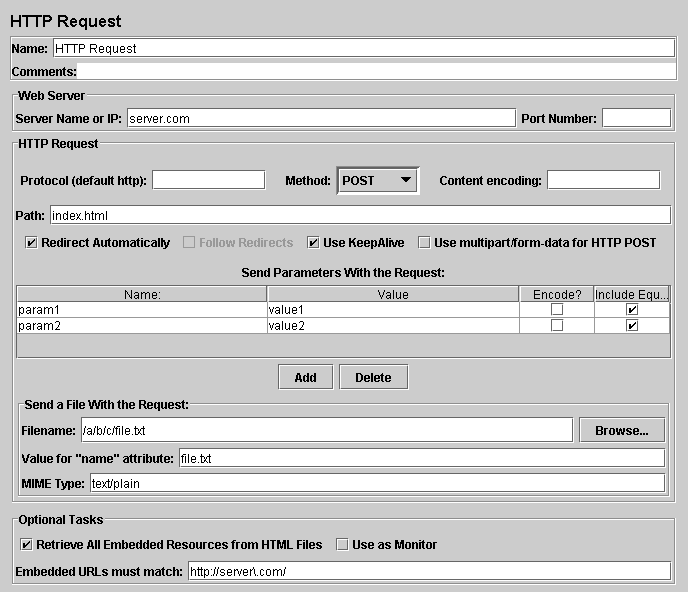
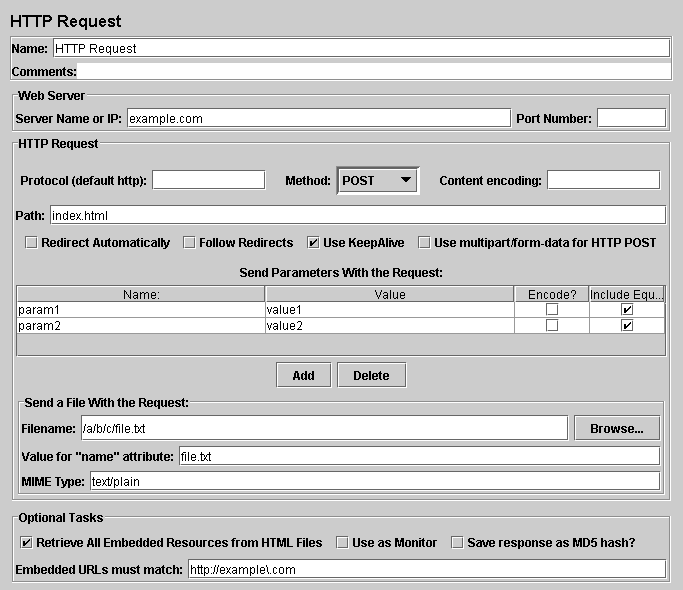
Implement Bug 41921 for HTTP Samplers
git-svn-id: https://svn.apache.org/repos/asf/jakarta/jmeter/trunk@642854 13f79535-47bb-0310-9956-ffa450edef68

Changed region(s): [[0.0307, 0.4576, 0.9839, 0.9763], [0.0, 0.0305, 0.9839, 0.4271], [0.6764, 0.9153, 0.9224, 0.9458]]

diff --git a/src/protocol/http/org/apache/jmeter/protocol/http/sampler/HTTPSamplerBase.java b/src/protocol/http/org/apache/jmeter/protocol/http/sampler/HTTPSamplerBase.java
@@ -19,12 +19,15 @@ package org.apache.jmeter.protocol.http.sampler;
 import java.io.ByteArrayOutputStream;
 import java.io.FileReader;
 import java.io.IOException;
+import java.io.InputStream;
 import java.io.PrintStream;
 import java.io.UnsupportedEncodingException;
 import java.net.MalformedURLException;
 import java.net.URI;
 import java.net.URISyntaxException;
 import java.net.URL;
+import java.security.MessageDigest;
+import java.security.NoSuchAlgorithmException;
 import java.util.Arrays;
 import java.util.Collections;
 import java.util.HashMap;
@@ -152,6 +155,9 @@ public abstract class HTTPSamplerBase extends AbstractSampler
 	public final static String EMBEDDED_URL_RE = "HTTPSampler.embedded_url_re"; // $NON-NLS-1$
 
 	public final static String MONITOR = "HTTPSampler.monitor"; // $NON-NLS-1$
+
+	// Store MD5 hash instead of storing response
+    private final static String MD5 = "HTTPSampler.md5"; // $NON-NLS-1$
 
 	/** A number to indicate that the port has not been set. */
 	public static final int UNSPECIFIED_PORT = 0;
@@ -438,6 +444,14 @@ public abstract class HTTPSamplerBase extends AbstractSampler
 
     public String getImplementation() {
         return this.getPropertyAsString(IMPLEMENTATION);
+    }
+
+    public boolean useMD5() {
+        return this.getPropertyAsBoolean(MD5, false);
+    }
+
+   public void setMD5(boolean truth) {
+        this.setProperty(MD5, truth, false);
     }
 
     /**
@@ -1333,6 +1347,65 @@ public abstract class HTTPSamplerBase extends AbstractSampler
     public void threadStarted(){    	
     }
     public void threadFinished(){    	
+    }
+
+    /**
+     * Read response from the input stream, converting to MD5 digest if the useMD5 property is set.
+     * 
+     * For the MD5 case, the result byte count is set to the size of the original response.
+     * 
+     * @param sampleResult
+     * @param in input stream
+     * @param length expected input length or zero
+     * @return the response or the MD5 of the response
+     * @throws IOException
+     */
+    public byte[] readResponse(SampleResult sampleResult, InputStream in, int length) throws IOException {
+        
+        byte[] readBuffer = getThreadContext().getReadBuffer();
+        int bufferSize=32;// Enough for MD5
+        
+        MessageDigest md=null;
+        boolean asMD5 = useMD5();
+        if (asMD5) {
+            try {
+                md = MessageDigest.getInstance("MD5"); //$NON-NLS-1$
+            } catch (NoSuchAlgorithmException e) {
+                log.error("Should not happen - could not find MD5 digest", e);
+                asMD5=false;
+            }
+        } else {
+            if (length <= 0) {// may also happen if long value > int.max
+                bufferSize = 4 * 1024;
+            } else {
+                bufferSize = length;
+            }
+        }
+        ByteArrayOutputStream w = new ByteArrayOutputStream(bufferSize);
+        int bytesRead = 0;
+    	int totalBytes = 0;
+    	boolean first = true;
+    	while ((bytesRead = in.read(readBuffer)) > -1) {
+    		if (first) {
+    			sampleResult.latencyEnd();
+    			first = false;
+    		}
+    		if (asMD5 && md != null) {
+    		    md.update(readBuffer, 0 , bytesRead);
+    		    totalBytes += bytesRead;
+    		} else {
+    		    w.write(readBuffer, 0, bytesRead);
+    		}
+    	}
+    	in.close();
+    	w.flush();
+    	if (asMD5 && md != null) {
+            byte[] md5Result = md.digest();
+            w.write(JOrphanUtils.baToHexString(md5Result).getBytes());
+            sampleResult.setBytes(totalBytes);
+    	}
+    	w.close();
+    	return w.toByteArray();
     }
 }
 

diff --git a/src/protocol/http/org/apache/jmeter/protocol/http/control/gui/HttpTestSampleGui.java b/src/protocol/http/org/apache/jmeter/protocol/http/control/gui/HttpTestSampleGui.java
@@ -48,7 +48,9 @@ public class HttpTestSampleGui extends AbstractSamplerGui {
 
 	private JCheckBox isMon;
 
-	private JLabeledTextField embeddedRE; // regular expression used to match against embedded resource URLs
+    private JCheckBox useMD5;
+
+    private JLabeledTextField embeddedRE; // regular expression used to match against embedded resource URLs
 	
 	public HttpTestSampleGui() {
 		init();
@@ -60,6 +62,7 @@ public class HttpTestSampleGui extends AbstractSamplerGui {
 		final HTTPSamplerBase samplerBase = (HTTPSamplerBase) element;
 		getImages.setSelected(samplerBase.isImageParser());
 		isMon.setSelected(samplerBase.isMonitor());
+        useMD5.setSelected(samplerBase.useMD5());
 		embeddedRE.setText(samplerBase.getEmbeddedUrlRE());
 	}
 
@@ -87,6 +90,7 @@ public class HttpTestSampleGui extends AbstractSamplerGui {
 			sampler.removeProperty(HTTPSamplerBase.IMAGE_PARSER);
 		}
 		samplerBase.setMonitor(isMon.isSelected());
+        samplerBase.setMD5(useMD5.isSelected());
 		samplerBase.setEmbeddedUrlRE(embeddedRE.getText());
 		this.configureTestElement(sampler);
 	}
@@ -120,9 +124,14 @@ public class HttpTestSampleGui extends AbstractSamplerGui {
 		getImages = new JCheckBox(JMeterUtils.getResString("web_testing_retrieve_images")); // $NON-NLS-1$
 		// Is monitor
 		isMon = new JCheckBox(JMeterUtils.getResString("monitor_is_title")); // $NON-NLS-1$
-		checkBoxPanel.add(getImages);
+        // Use MD5
+        useMD5 = new JCheckBox(JMeterUtils.getResString("response_save_as_md5")); // $NON-NLS-1$
+
+        checkBoxPanel.add(getImages);
 		checkBoxPanel.add(isMon);
-		optionalTasksPanel.add(checkBoxPanel);
+        checkBoxPanel.add(useMD5);
+        optionalTasksPanel.add(checkBoxPanel);
+
 		// Embedded URL match regex
 		embeddedRE = new JLabeledTextField(JMeterUtils.getResString("web_testing_embedded_url_pattern"),30); // $NON-NLS-1$
 		optionalTasksPanel.add(embeddedRE);
@@ -142,6 +151,7 @@ public class HttpTestSampleGui extends AbstractSamplerGui {
 		super.clearGui();
 		getImages.setSelected(false);
 		isMon.setSelected(false);
+		useMD5.setSelected(false);
 		urlConfigGui.clear();
 		embeddedRE.setText(""); // $NON-NLS-1$
 	}

diff --git a/src/protocol/http/org/apache/jmeter/protocol/http/sampler/HTTPSampler.java b/src/protocol/http/org/apache/jmeter/protocol/http/sampler/HTTPSampler.java
@@ -17,7 +17,6 @@
 package org.apache.jmeter.protocol.http.sampler;
 
 import java.io.BufferedInputStream;
-import java.io.ByteArrayOutputStream;
 import java.io.FileNotFoundException;
 import java.io.IOException;
 import java.io.InputStream;
@@ -198,10 +197,10 @@ public class HTTPSampler extends HTTPSamplerBase {
 	 *                if an I/O exception occurs
 	 */
 	protected byte[] readResponse(HttpURLConnection conn, SampleResult res) throws IOException {
-		byte[] readBuffer = getThreadContext().getReadBuffer();
 		BufferedInputStream in;
 
-        if ((conn.getContentLength() == 0) 
+        final int contentLength = conn.getContentLength();
+        if ((contentLength == 0) 
         	&& JMeterUtils.getPropDefault("httpsampler.obey_contentlength", // $NON-NLS-1$
         	false)) {
             log.info("Content-Length: 0, not reading http-body");
@@ -250,20 +249,7 @@ public class HTTPSampler extends HTTPSamplerBase {
 			}
 			in = new BufferedInputStream(conn.getErrorStream());
 		}
-		java.io.ByteArrayOutputStream w = new ByteArrayOutputStream();
-		int x = 0;
-		boolean first = true;
-		while ((x = in.read(readBuffer)) > -1) {
-			if (first) {
-				res.latencyEnd();
-				first = false;
-			}
-			w.write(readBuffer, 0, x);
-		}
-		in.close();
-		w.flush();
-		w.close();
-		return w.toByteArray();
+		return readResponse(res, in, contentLength);
 	}
 
 	/**

diff --git a/src/protocol/http/org/apache/jmeter/protocol/http/sampler/HTTPSampler2.java b/src/protocol/http/org/apache/jmeter/protocol/http/sampler/HTTPSampler2.java
@@ -830,25 +830,7 @@ public class HTTPSampler2 extends HTTPSamplerBase {
                 if (responseHeader!= null && ENCODING_GZIP.equals(responseHeader.getValue())) {
                     instream = new GZIPInputStream(instream);
                 }
-    
-                //int contentLength = httpMethod.getResponseContentLength();Not visible ...
-                //TODO size ouststream according to actual content length
-                ByteArrayOutputStream outstream = new ByteArrayOutputStream(4*1024);
-                        //contentLength > 0 ? contentLength : DEFAULT_INITIAL_BUFFER_SIZE);
-                byte[] buffer = new byte[4096];
-                int len;
-                boolean first = true;// first response
-                while ((len = instream.read(buffer)) > 0) {
-                    if (first) { // save the latency
-                        res.latencyEnd();
-                        first = false;
-                    }
-                    outstream.write(buffer, 0, len);
-                }
-    
-                res.setResponseData(outstream.toByteArray());
-                outstream.close();            
-
+                res.setResponseData(readResponse(res, instream, (int) httpMethod.getResponseContentLength()));
             }
             
 			res.sampleEnd();
